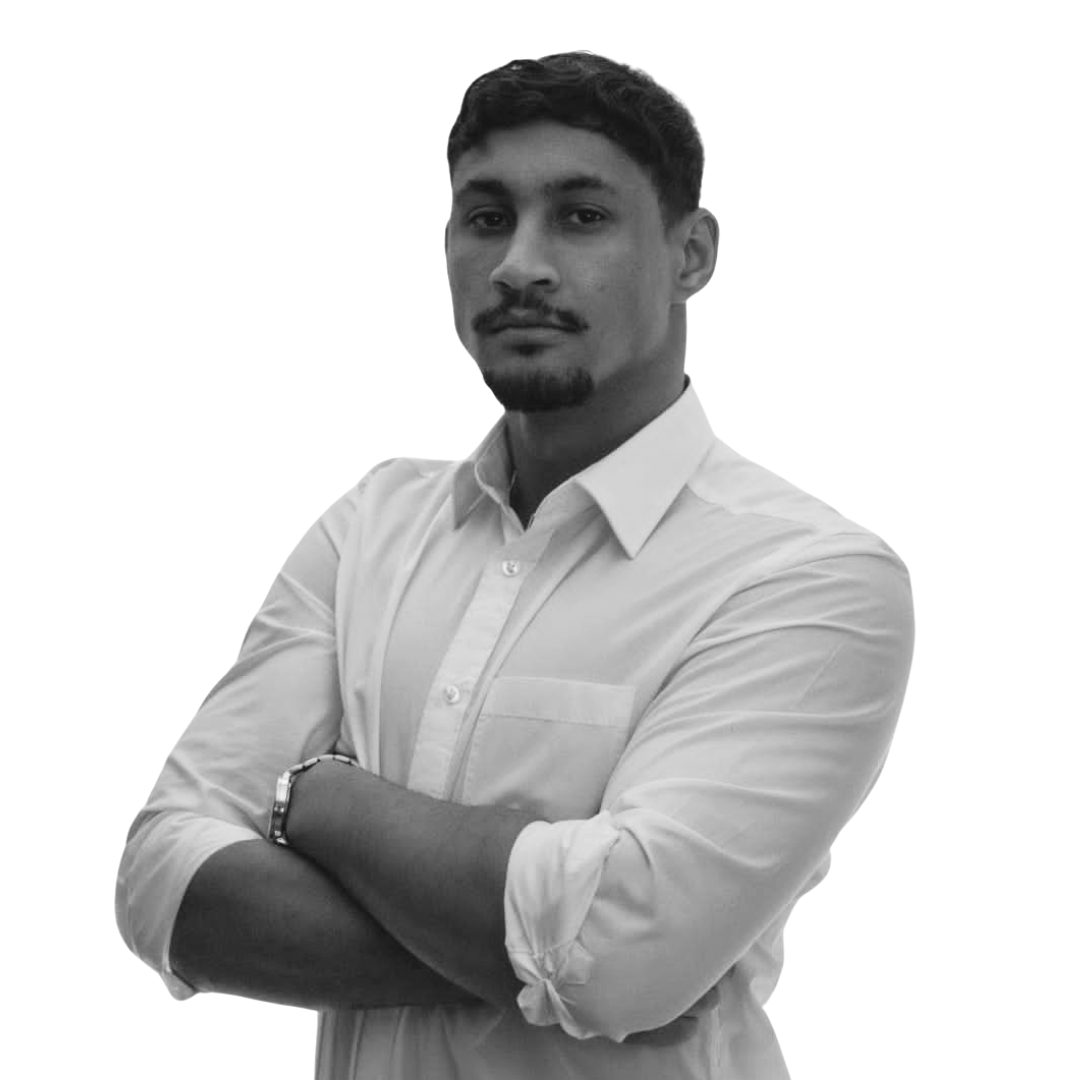
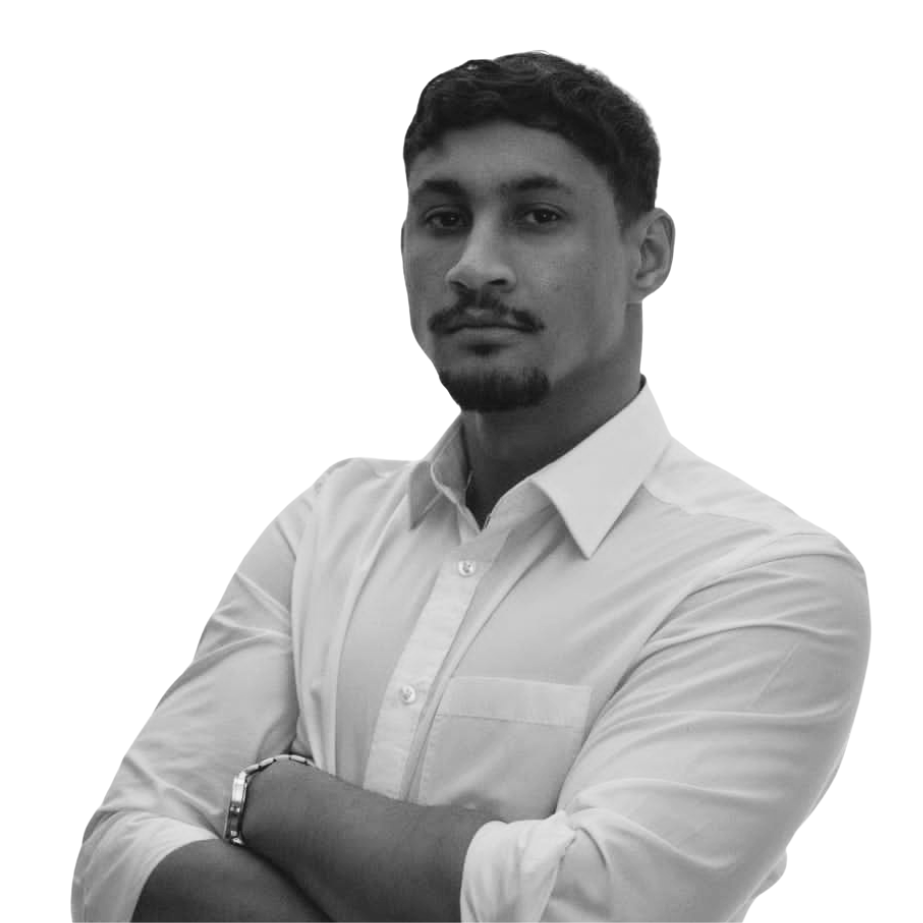
img

diff --git a/src/components/HomeSection.vue b/src/components/HomeSection.vue
@@ -1,9 +1,15 @@
 <template>
   <div class="container d-flex justify-content-center align-items-center">
-    <div class="row d-flex justify-content-center">
-        <div class="col"></div>
+    <div class="row d-flex justify-content-center align-items-center">
+        <div class="col d-flex justify-content-end">
+            <div class="intro-div pb-5">
+                <h1 class="intro">Hi I'm Caleb Okkers</h1>
+                <h3 class="title">Web Developer</h3>
+                <h3 class="intro-text">I build pixel perfect projects for the web.</h3>
+            </div>
+        </div>
         <div class="col me-auto">
-            <img class="profile" src="https://github.com/caleb-okkers/portfolioaugust24/blob/master/src/assets/caleb-whiteshirt-duotoneblue.png?raw=true" alt="">
+            <img class="profile" src="https://github.com/caleb-okkers/portfolioaugust24/blob/master/src/assets/caleb-whiteshirt-duotoneclassic.png?raw=true" alt="">
         </div>
     </div>
   </div>
@@ -19,7 +25,15 @@ export default {
 
 .profile {
     aspect-ratio: 1;
-    width: 130%;
+    width: 120%;
+}
+
+.intro-div {
+    color: #fff;
+}
+
+.intro {
+    font-size: 4rem;
 }
 
 </style>
